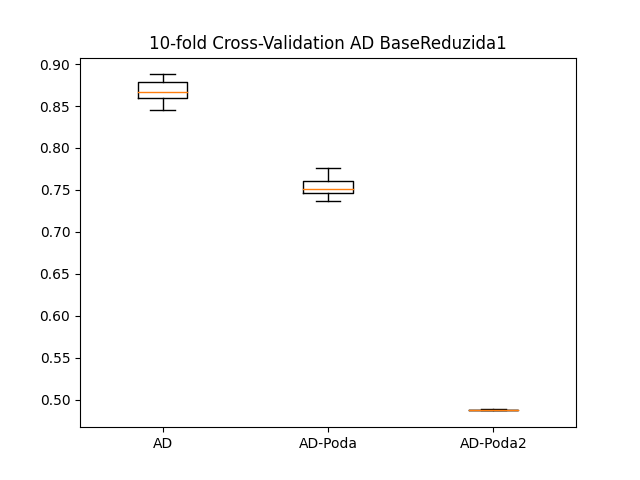
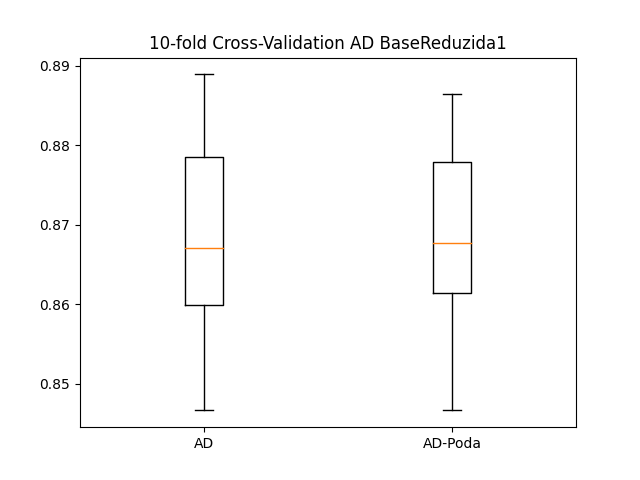
fixing

diff --git a/src/check_point3.py b/src/check_point3.py
@@ -1,6 +1,10 @@
 from pandas import read_csv
-from pandas.plotting import scatter_matrix
+from pprint import pprint
+import numpy as np
+import pandas as pd
+from scipy import stats
 from matplotlib import pyplot
+from pandas.plotting import scatter_matrix
 from os import path, getcwd, listdir
 from sklearn.model_selection import train_test_split
 from sklearn.model_selection import cross_val_score
@@ -34,18 +38,14 @@ from sklearn.naive_bayes import ComplementNB
 from sklearn.naive_bayes import MultinomialNB
 from sklearn.naive_bayes import BernoulliNB
 from sklearn.naive_bayes import CategoricalNB
-from pprint import pprint
-import numpy as np
-import pandas as pd
-from scipy import stats
 from sklearn.feature_selection import SelectKBest
 from sklearn.feature_selection import chi2
 from sklearn.ensemble import ExtraTreesClassifier
 from sklearn.feature_selection import SelectFromModel
-from pprint import pprint
 from pre_processing.base import BaseReduction
 from sklearn.metrics import plot_confusion_matrix
 from sklearn import tree
+from sklearn.preprocessing import normalize
 
 class Supervisioned:
 
@@ -100,6 +100,7 @@ class Supervisioned:
 
         #self.kNN()
         #self.ad()
+        #self.nb()
         self.mlp()
 
 
@@ -108,6 +109,7 @@ class Supervisioned:
         print('----------------------------------------------------------')
         print('Início Experimento Redes Neurais ')
 
+        '''
         skf = StratifiedKFold(n_splits=2)
 
         mlps = []
@@ -122,8 +124,9 @@ class Supervisioned:
                     print(i, mi, hl, lr)
                     mlps.append((f'{i}', MLPClassifier(random_state=0, solver='sgd', momentum=momentum, max_iter=mi, learning_rate='adaptive', learning_rate_init=lr, hidden_layer_sizes=hl)))
                     i += 1
-        
+        '''
         results = {}
+
         for base in self.bases:
             print('----------------')
             print(base, 'cross_val_score treinamento')
@@ -143,6 +146,9 @@ class Supervisioned:
             score2 = []
             names = []
 
+
+
+            '''
             for name, model in mlps:
 
                 cv_results = cross_val_score(model, X_train, Y_train, cv=skf, scoring='accuracy')
@@ -163,10 +169,66 @@ class Supervisioned:
             fig.savefig(f'figs/mlp/{base}-mlp.png')
             bestValue = sortArr[0]
 
+
             for name, model in mlps:
                 mean = results[base][name]['mean']
                 if mean == bestValue:
-                    print(f'{base} com score médio de {bestValue}. Melhor parâmetro: {name}')
+                    print(f'{base} com score médio de {bestValue}. Melhor parâmetro (index): {name}')
+                    model.set_params()
+                    clf = model.fit(X_train, Y_train)
+                    predictions = model.predict(X_test)
+                    
+                    # Evaluate predictions
+                    print('Acurácia de predição:', accuracy_score(Y_test, predictions))
+                    print('Matriz de confusão:')
+                    print(confusion_matrix(Y_test, predictions))
+                    print('Report de classificação:')
+                    print(classification_report(Y_test, predictions))                 
+            '''
+
+            skf = StratifiedKFold(n_splits=10)
+            selectedMlps = []
+            mapp = [0.00001, 0.001, 0.01, 0.1, 0.2]
+            mlp = 1
+            for i in mapp:
+                selectedMlps.append((f'MLP-{mlp}', MLPClassifier(alpha=i, solver='sgd', momentum=0.8, max_iter=500, learning_rate='adaptive', learning_rate_init=0.1, hidden_layer_sizes=12)))
+                mlp += 1
+
+            
+            for name, model in selectedMlps:
+                cv_results = cross_val_score(model, X_train, Y_train, cv=skf, scoring='accuracy')
+                results[base][name] = {}
+                results[base][name]['mean'] = cv_results.mean()
+                results[base][name]['std'] = cv_results.std()
+                print('%s: %f (%f)' % (name, cv_results.mean(), cv_results.std()))
+                mean = results[base][name]['mean']
+                score.append(mean)
+                names.append(name)
+                score2.append(cv_results)
+
+            sortArr = sorted(score, reverse=True)
+            #fig = pyplot.figure()
+            #ax = fig.add_subplot(111)
+            #bp = ax.boxplot(score2, labels=names)
+            #ax.set_title(f'{base}') 
+            #fig.savefig(f'figs/mlp/{base}-mlp.png')
+            bestValue = sortArr[0]
+
+            for name, model in selectedMlps:
+                #mean = results[base][name]['mean']
+                #if mean == bestValue:
+                #print(f'{base} com score médio de {bestValue}. Melhor parâmetro (index): {name}')
+                #model.set_params()
+                clf = model.fit(X_train, Y_train)
+                predictions = model.predict(X_test)
+                
+                # Evaluate predictions
+                print(f'{name} Acurácia de predição:', accuracy_score(Y_test, predictions))
+                #print('Matriz de confusão:')
+                #print(confusion_matrix(Y_test, predictions))
+                #print('Report de classificação:')
+                #print(classification_report(Y_test, predictions))
+            
 
 
 
@@ -174,12 +236,13 @@ class Supervisioned:
         print('----------------------------------------------------------')
         print('Início Experimento Naive Bayes ')
         
+        skf = StratifiedKFold(n_splits=2)
         nbParameters = []
-        nbParameters.append((f'NB1', GaussianNB()))
-        nbParameters.append((f'NB2', MultinomialNB()))
-        nbParameters.append((f'NB3', ComplementNB()))
-        nbParameters.append((f'NB4', BernoulliNB()))
-        nbParameters.append((f'NB5', CategoricalNB()))
+        nbParameters.append((f'NB', GaussianNB()))
+        #nbParameters.append((f'NB2', MultinomialNB()))
+        #nbParameters.append((f'NB3', ComplementNB()))
+        #nbParameters.append((f'NB4', BernoulliNB()))
+        #nbParameters.append((f'NB5', CategoricalNB()))
 
         results = {}
 
@@ -188,6 +251,8 @@ class Supervisioned:
             print(base, 'cross_val_score treinamento')
             print('---------------')
             dataset = self.bases[base]
+            dataset.hist()
+            pyplot.show()
             feature_names = ['Speed', 'Operatorname', 'CellID', 
 				'RSRP', 'RSRQ', 'SNR', 'RSSI', 'State', 
 				'ServingCell_Distance', 'CQI']
@@ -201,7 +266,8 @@ class Supervisioned:
             score = []
             score2 = []
             names = []
-            for name, model in adParameters:
+
+            for name, model in nbParameters:
 
                 cv_results = cross_val_score(model, X_train, Y_train, cv=skf, scoring='accuracy')
                 results[base][name] = {}
@@ -221,32 +287,22 @@ class Supervisioned:
             fig.savefig(f'figs/nb/{base}-nb.png')
             bestValue = sortArr[0]
 
-            for name, model in adParameters:
+            for name, model in nbParameters:
                 #mean = results[base][name]['mean']
                 #if mean == bestValue:
                 print(f'{name} {base} com score médio de {bestValue}.')
                 clf = model.fit(X_train, Y_train)
                 predictions = model.predict(X_test)
-                fig2 = pyplot.figure(figsize=(25,20)) 
-                _ = tree.plot_tree(clf, feature_names=feature_names,  class_names=class_names, filled=True)
-                fig2.savefig(f'figs/ad/decision-tree-{base}-{name}')
+                t = model.predict_proba(X_test)
+                print()
+                #print(dir(model))
                 # Evaluate predictions
                 print('Acurácia de predição:', accuracy_score(Y_test, predictions))
-                print('Matriz de confusão:')
-                print(confusion_matrix(Y_test, predictions))
-                print('Report de classificação:')
-                print(classification_report(Y_test, predictions))#, zero_division=1))
-                # Plot non-normalized confusion matrix
-                titles_options = [("Matriz de confusão sem normalização", None), ("Matriz de confusão normalizada", 'true')]
-                class_names = ['high', 'low', 'medium']
-                for title, normalize in titles_options:
-                    disp = plot_confusion_matrix(clf, X_test, Y_test, 
-                                                    display_labels=class_names, 
-                                                    cmap=pyplot.cm.Blues, 
-                                                    normalize=normalize)
-                    disp.ax_.set_title(f'{title} - {base}')
-                    disp.figure_.savefig(f'figs/ad/cm-{base}-{normalize}-{name}.png')
-                    #fig.savefig(f'figs/knn/confusion-matrix-{normalize}.png')
+                #print('Matriz de confusão:')
+                #print(confusion_matrix(Y_test, predictions))
+                #print('Report de classificação:')
+                #print(classification_report(Y_test, predictions))#, zero_division=1))
+
 
     def ad(self):
         print('----------------------------------------------------------')
@@ -254,9 +310,10 @@ class Supervisioned:
         skf = StratifiedKFold(n_splits=10)
         
         adParameters = []
-
+        pruning = [0.1, 0.01, 0.001, 0.0001, 0.00001]
         adParameters.append((f'AD', DecisionTreeClassifier()))
-        adParameters.append((f'AD-Poda', DecisionTreeClassifier(ccp_alpha=0.01)))
+        for i in pruning:
+            adParameters.append((f'AD-P', DecisionTreeClassifier(ccp_alpha=i)))
         #adParameters.append((f'AD-Poda2', DecisionTreeClassifier(ccp_alpha=0.2)))
 
         results = {}
@@ -292,38 +349,44 @@ class Supervisioned:
                 score2.append(cv_results)
             
             sortArr = sorted(score, reverse=True)
-            fig = pyplot.figure()
-            ax = fig.add_subplot(111)
-            bp = ax.boxplot(score2, labels=names)
-            ax.set_title(f'10-fold Cross-Validation AD {base}') 
-            fig.savefig(f'figs/ad/{base}-ad.png')
+            #fig = pyplot.figure()
+            #ax = fig.add_subplot(111)
+            #bp = ax.boxplot(score2, labels=names)
+            #ax.set_title(f'10-fold Cross-Validation AD {base}') 
+            #fig.savefig(f'figs/ad/{base}-ad.png')
             bestValue = sortArr[0]
 
             for name, model in adParameters:
-                #mean = results[base][name]['mean']
+                mean = results[base][name]['mean']
                 #if mean == bestValue:
-                print(f'{name} {base} com score médio de {bestValue}.')
+                params = model.get_params()
+                pruning = params['ccp_alpha']
+                #if pruning > 0:
+                #    print(f'{name} {base} com score médio de {mean}. Pruning: {pruning} ')
+                #else:
+                 #   print(f'{name} {base} com score médio de {bestValue}.')  
+
                 clf = model.fit(X_train, Y_train)
                 predictions = model.predict(X_test)
-                fig2 = pyplot.figure(figsize=(25,20)) 
-                _ = tree.plot_tree(clf, feature_names=feature_names,  class_names=class_names, filled=True)
-                fig2.savefig(f'figs/ad/decision-tree-{base}-{name}')
+                #fig2 = pyplot.figure(figsize=(25,20)) 
+                #_ = tree.plot_tree(clf, feature_names=feature_names,  class_names=class_names, filled=True)
+                #fig2.savefig(f'figs/ad/decision-tree-{base}-{name}')
                 # Evaluate predictions
                 print('Acurácia de predição:', accuracy_score(Y_test, predictions))
-                print('Matriz de confusão:')
-                print(confusion_matrix(Y_test, predictions))
-                print('Report de classificação:')
-                print(classification_report(Y_test, predictions))#, zero_division=1))
+                #print('Matriz de confusão:')
+                #print(confusion_matrix(Y_test, predictions))
+                #print('Report de classificação:')
+                #print(classification_report(Y_test, predictions))#, zero_division=1))
                 # Plot non-normalized confusion matrix
-                titles_options = [("Matriz de confusão sem normalização", None), ("Matriz de confusão normalizada", 'true')]
-                class_names = ['high', 'low', 'medium']
-                for title, normalize in titles_options:
-                    disp = plot_confusion_matrix(clf, X_test, Y_test, 
-                                                    display_labels=class_names, 
-                                                    cmap=pyplot.cm.Blues, 
-                                                    normalize=normalize)
-                    disp.ax_.set_title(f'{title} - {base}')
-                    disp.figure_.savefig(f'figs/ad/cm-{base}-{normalize}-{name}.png')
+                #titles_options = [("Matriz de confusão sem normalização", None), ("Matriz de confusão normalizada", 'true')]
+                #class_names = ['high', 'low', 'medium']
+                #for title, normalize in titles_options:
+                #    disp = plot_confusion_matrix(clf, X_test, Y_test, 
+                 #                                   display_labels=class_names, 
+                  #                                  cmap=pyplot.cm.Blues, 
+                   #                                 normalize=normalize)
+                    #disp.ax_.set_title(f'{title} - {base}')
+                    #disp.figure_.savefig(f'figs/ad/cm-{base}-{normalize}-{name}.png')
                     #fig.savefig(f'figs/knn/confusion-matrix-{normalize}.png')
 
 
@@ -337,8 +400,8 @@ class Supervisioned:
         knnParameters = []
         kVar = [1, 3, 5, 7, 9, 11, 13]
         for i in kVar:
-            knnParameters.append((f'kNN-{i}', KNeighborsClassifier(n_neighbors=i)))
-            knnParameters.append((f'kNN-{i}-W', KNeighborsClassifier(n_neighbors=i, weights='distance')))
+            knnParameters.append((f'{i}', KNeighborsClassifier(n_neighbors=i)))
+            knnParameters.append((f'{i}W', KNeighborsClassifier(n_neighbors=i, weights='distance')))
             
         results = {}
 
@@ -373,7 +436,8 @@ class Supervisioned:
             fig = pyplot.figure()
             ax = fig.add_subplot(111)
             bp = ax.boxplot(score2, labels=names)
-            ax.set_title(f'10-fold Cross-Validation kNN {base}')
+            #ax.set_title(f'kNN {base}')
+            
             #pyplot.boxplot(score2, labels=names)         
             #pyplot.title(f'10-fold Cross-Validation kNN {base}')       
             fig.savefig(f'figs/knn/{base}-kNN.png')
@@ -402,21 +466,9 @@ class Supervisioned:
                                                         normalize=normalize)
                         disp.ax_.set_title(f'{title} - {base}')
                         disp.figure_.savefig(f'figs/knn/cm-{base}-{normalize}.png')
-                        #fig.savefig(f'figs/knn/confusion-matrix-{normalize}.png')
-
-
-            
-            
+                        #fig.savefig(f'figs/knn/confusion-matrix-{normalize}.png')            
         print('Fim Experimento kNN -')
         print('----------------------------------------------------------')
-
-            #sort_orders = sorted(results[base].items(), key=lambda x: x[1], reverse=True)
-
-                
-
-
-
-
 
 chkp = Supervisioned('teste.csv')
 chkp.generateBases()

diff --git a/src/pre_processing/base.py b/src/pre_processing/base.py
@@ -7,6 +7,7 @@ from sklearn.discriminant_analysis import LinearDiscriminantAnalysis
 from pandas import read_csv
 import numpy as np
 import pandas as pd
+from sklearn.preprocessing import normalize
 
 class BaseReduction:
 
